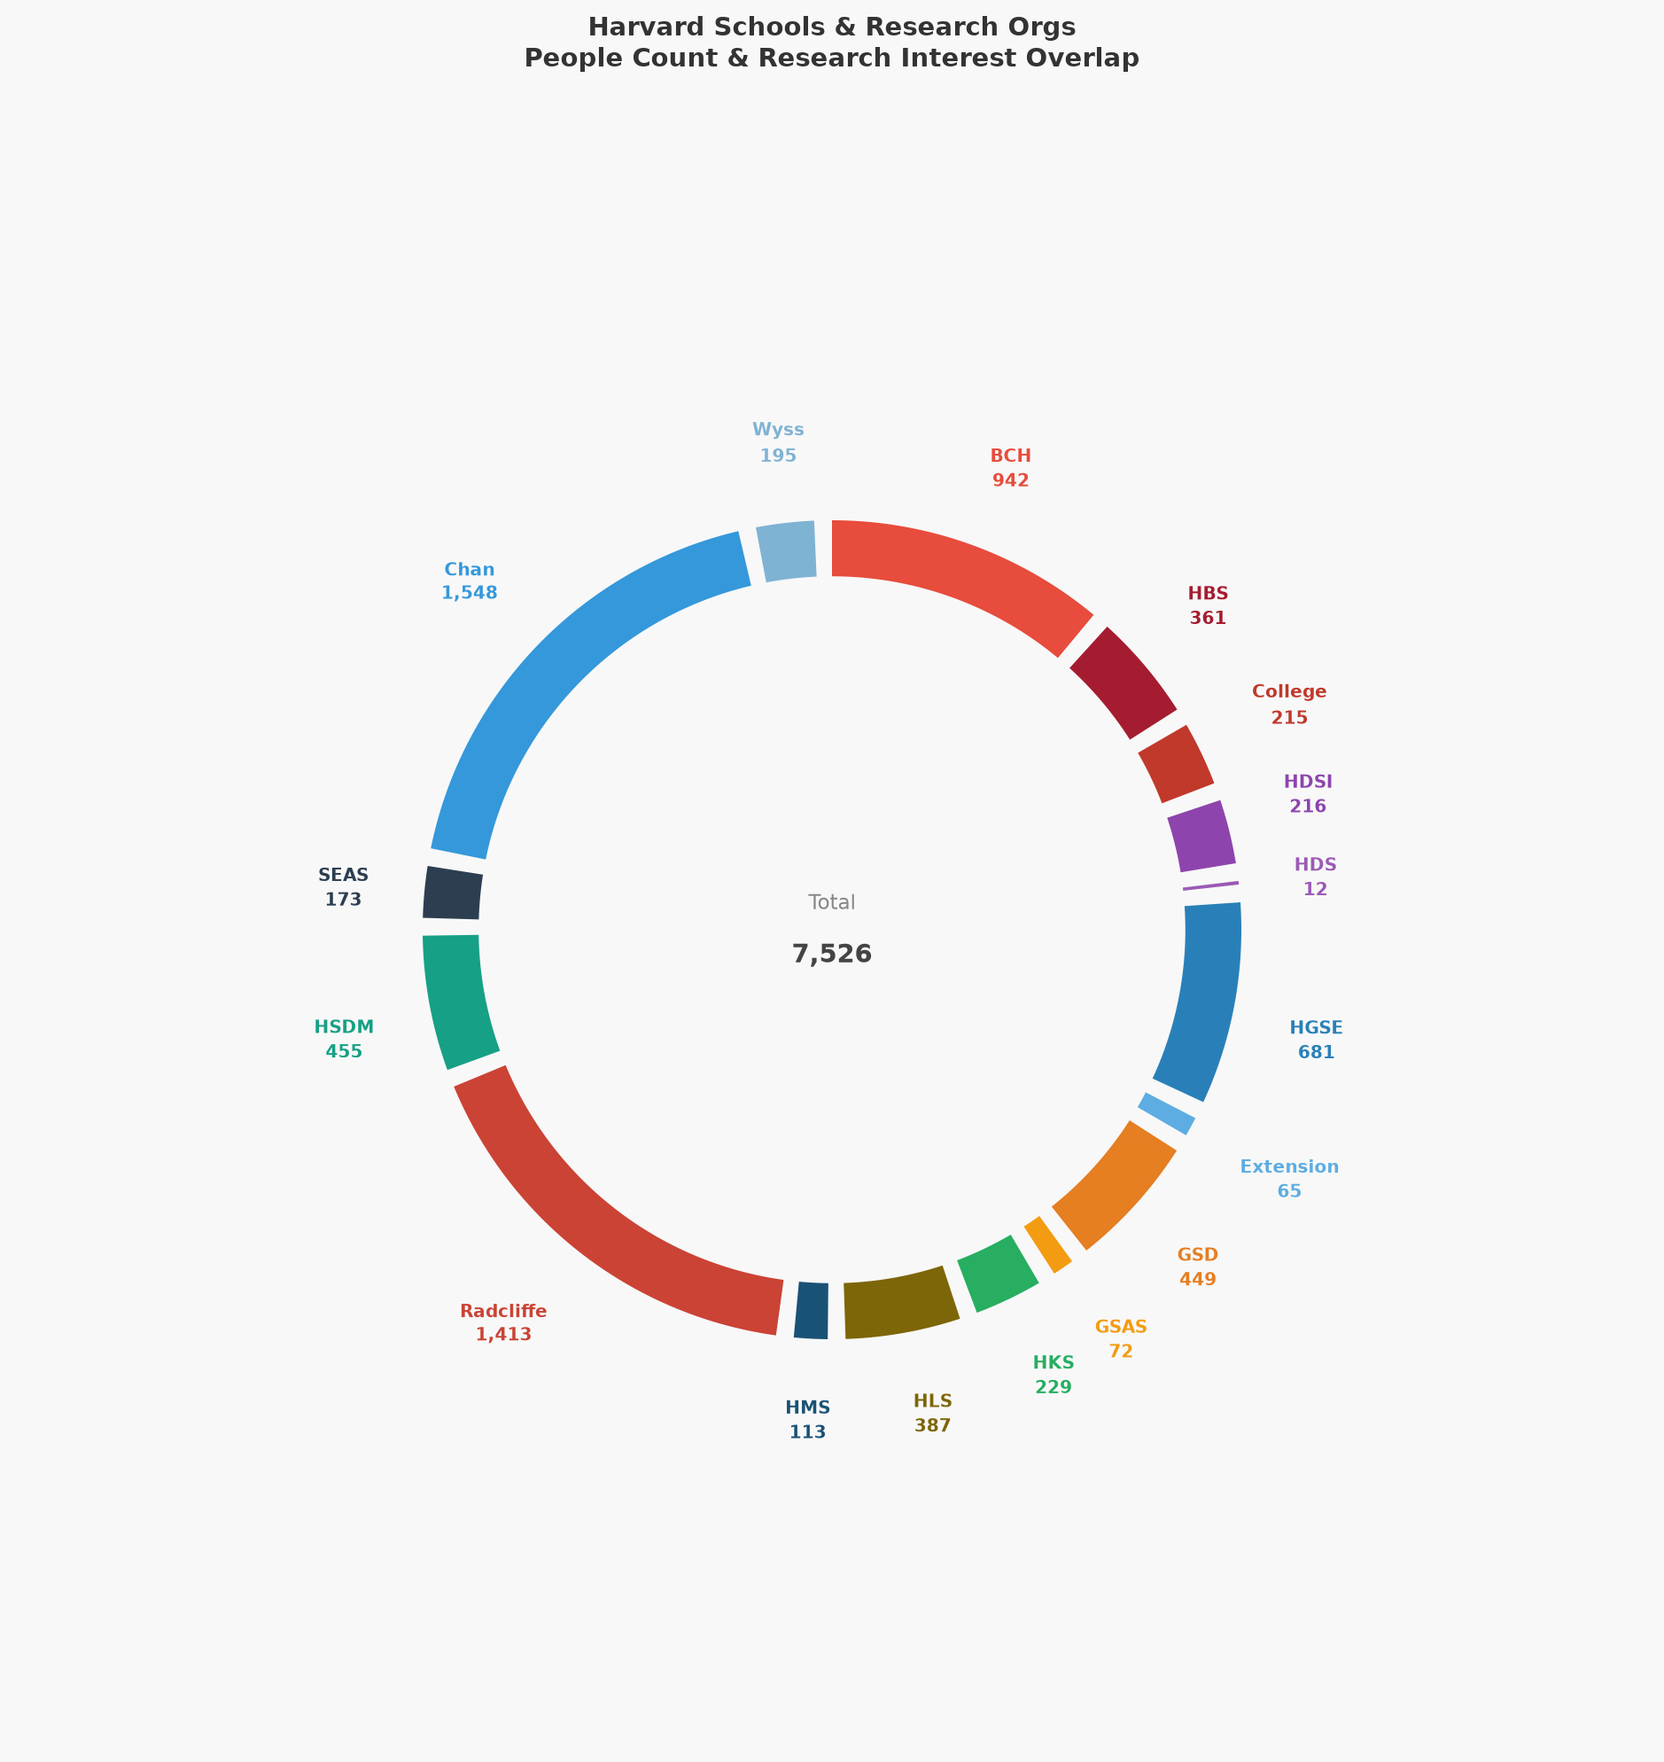
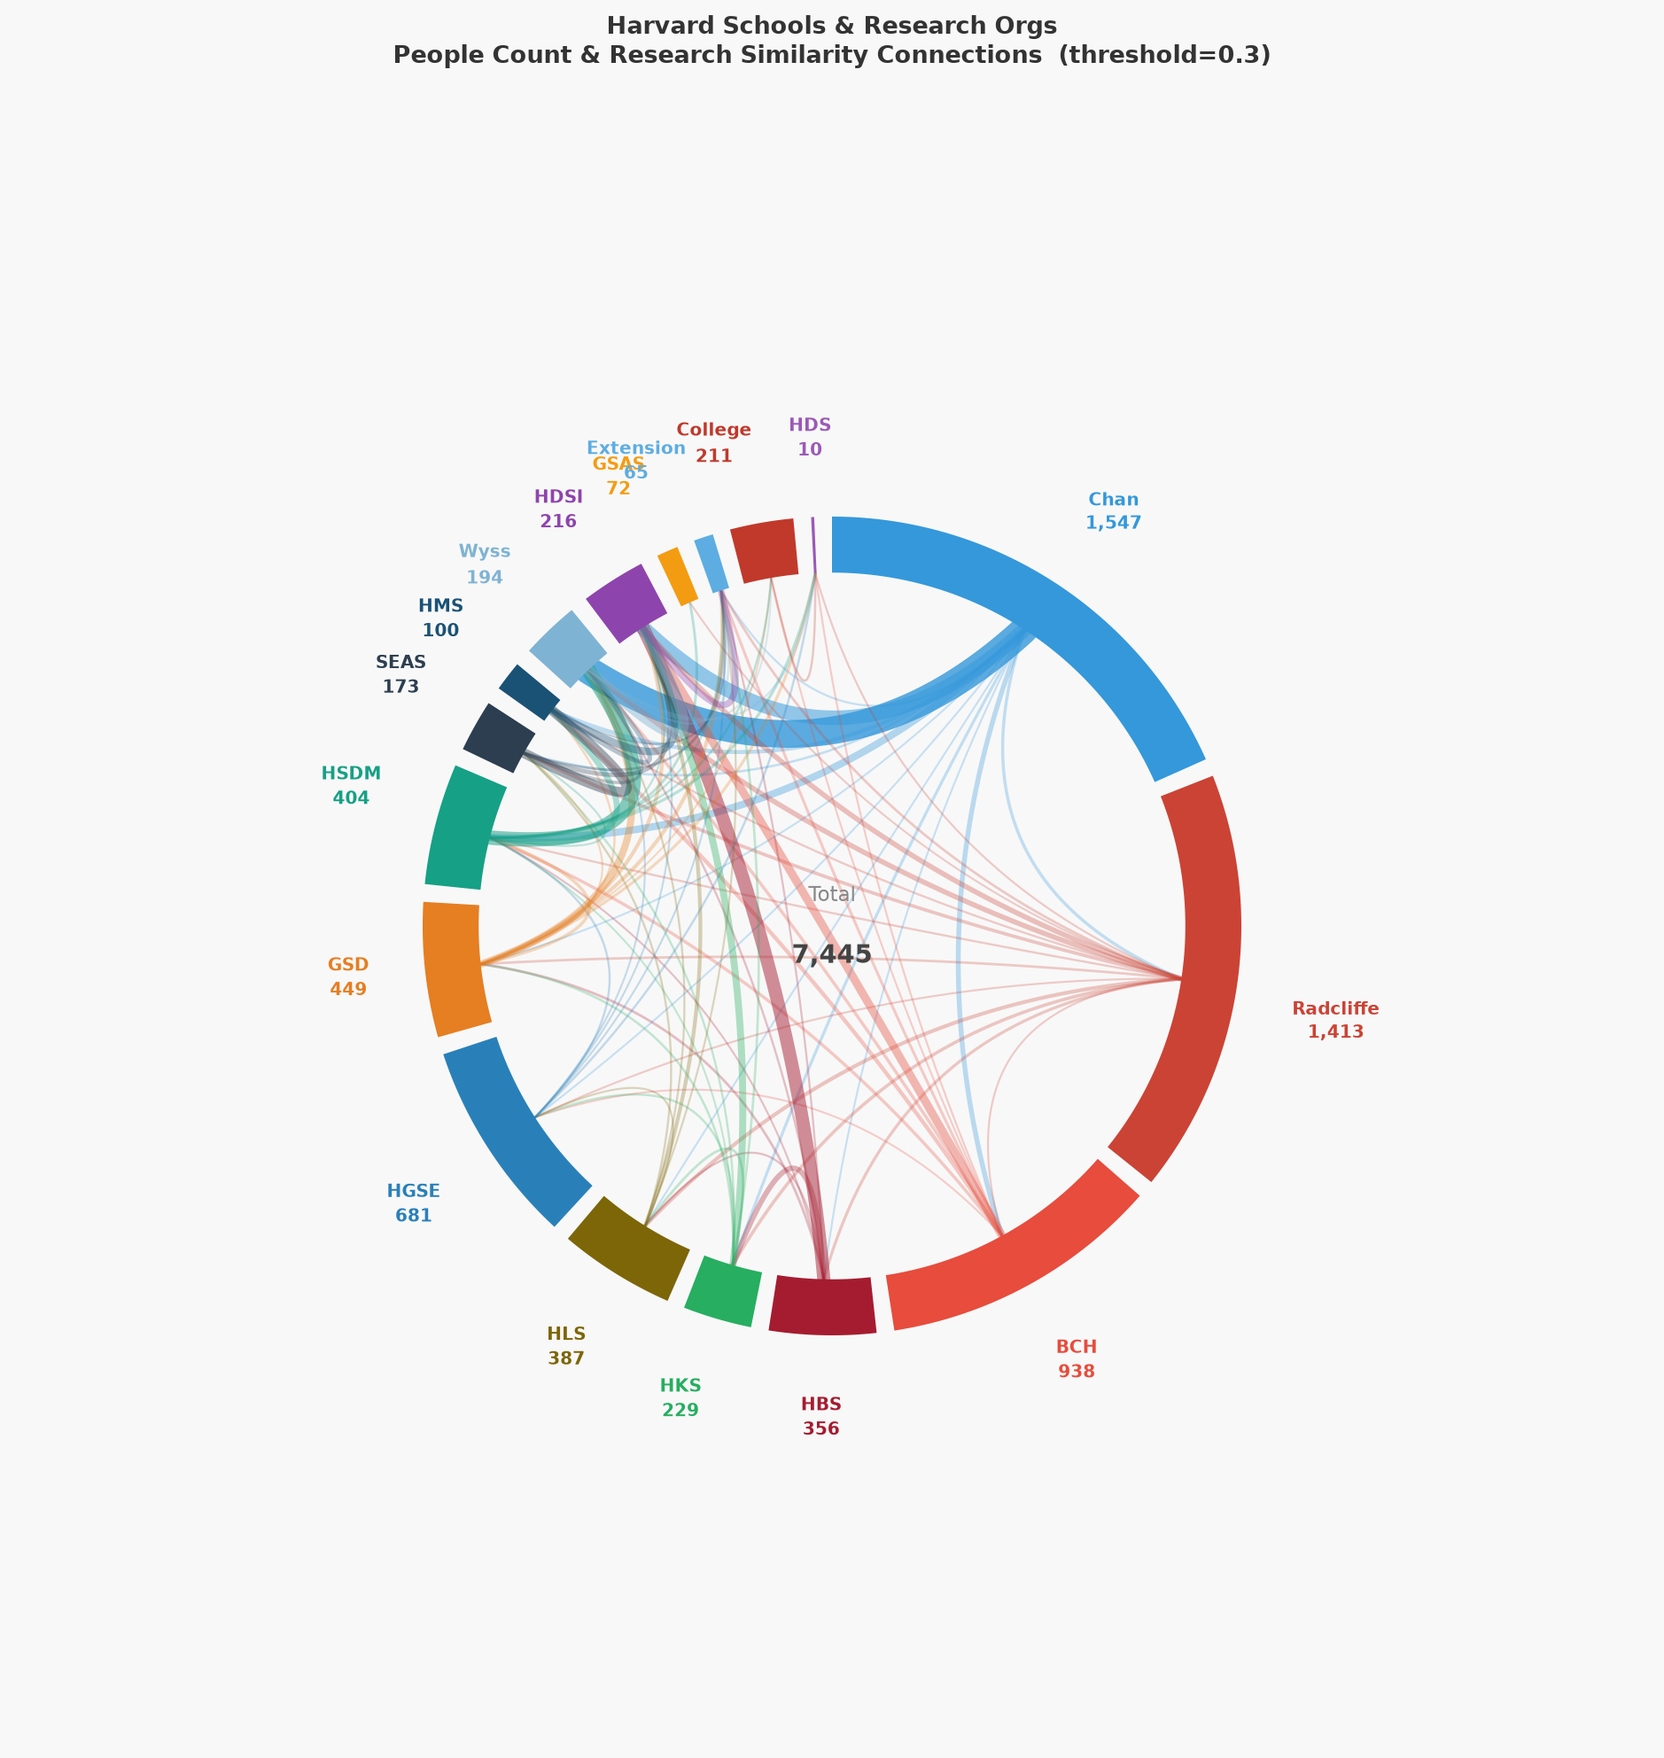
add more data and picture

diff --git a/scripts/visualize_school_connections.py b/scripts/visualize_school_connections.py
@@ -1,18 +1,24 @@
 #!/usr/bin/env python3
 """
-Generate a chord diagram showing the number of people per Harvard school / research org
-and research-interest keyword overlap as chord connections.
+Chord diagram: Harvard schools/orgs connected by researcher similarity.
+
+Algorithm:
+  1. Build one text per person from bio + title + research_interests.
+  2. Fit TF-IDF across all people (unigrams + bigrams, English stop words).
+  3. For every org pair, compute cosine-similarity between all their people.
+  4. Connection strength = number of cross-org person pairs with sim >= threshold,
+     normalised by sqrt(|A| * |B|) so large orgs don't dominate.
+  5. Draw a chord diagram: arc size = people count, chord width = connection strength.
 
 Usage:
     py scripts/visualize_school_connections.py
-    py scripts/visualize_school_connections.py --output data/my_chart.png
+    py scripts/visualize_school_connections.py --threshold 0.3 --output data/chart.png
 """
 from __future__ import annotations
 
 import argparse
 import json
 import math
-from collections import Counter
 from pathlib import Path
 
 import matplotlib
@@ -21,182 +27,245 @@ import matplotlib.pyplot as plt
 from matplotlib.patches import PathPatch
 from matplotlib.path import Path as MPath
 import numpy as np
+from sklearn.feature_extraction.text import TfidfVectorizer
+from sklearn.metrics.pairwise import cosine_similarity
 
 ROOT = Path(__file__).resolve().parent.parent
 DATA_DIR = ROOT / "data" / "raw"
 DEFAULT_OUTPUT = ROOT / "data" / "school_connections.png"
+DEFAULT_THRESHOLD = 0.3
 
-# (short label, hex color)
+# (short label, hex color) — order determines clockwise position in the diagram
 SCHOOL_META: dict[str, tuple[str, str]] = {
+    "harvard_t_h_chan_school_public_health_people": ("Chan",      "#3498DB"),
+    "harvard_radcliffe_institute_people":           ("Radcliffe", "#CB4335"),
     "boston_childrens_hospital_people":             ("BCH",       "#E74C3C"),
     "harvard_business_school_people":               ("HBS",       "#A51C30"),
-    "harvard_college_dso_staff_people":             ("College",   "#C0392B"),
-    "harvard_data_science_initiative_people":       ("HDSI",      "#8E44AD"),
-    "harvard_divinity_school_people":               ("HDS",       "#9B59B6"),
-    "harvard_education_school_people":              ("HGSE",      "#2980B9"),
-    "harvard_extension_school_people":              ("Extension", "#5DADE2"),
-    "harvard_graduate_school_of_design_people":     ("GSD",       "#E67E22"),
-    "harvard_gsas_staff_people":                    ("GSAS",      "#F39C12"),
     "harvard_kennedy_school_people":                ("HKS",       "#27AE60"),
     "harvard_law_school_people":                    ("HLS",       "#7D6608"),
-    "harvard_medical_school_people":                ("HMS",       "#1A5276"),
-    "harvard_radcliffe_institute_people":           ("Radcliffe", "#CB4335"),
+    "harvard_education_school_people":              ("HGSE",      "#2980B9"),
+    "harvard_graduate_school_of_design_people":     ("GSD",       "#E67E22"),
     "harvard_school_of_dental_medicine_people":     ("HSDM",      "#16A085"),
     "harvard_seas_people":                          ("SEAS",      "#2C3E50"),
-    "harvard_t_h_chan_school_public_health_people": ("Chan",      "#3498DB"),
+    "harvard_medical_school_people":                ("HMS",       "#1A5276"),
     "harvard_wyss_institute_people":                ("Wyss",      "#7FB3D3"),
+    "harvard_data_science_initiative_people":       ("HDSI",      "#8E44AD"),
+    "harvard_gsas_staff_people":                    ("GSAS",      "#F39C12"),
+    "harvard_extension_school_people":              ("Extension", "#5DADE2"),
+    "harvard_college_dso_staff_people":             ("College",   "#C0392B"),
+    "harvard_divinity_school_people":               ("HDS",       "#9B59B6"),
 }
 
 
-def count_profiles(school_dir: Path) -> int:
-    return sum(
-        1 for d in school_dir.iterdir()
-        if d.is_dir() and not d.name.startswith("_") and (d / "profile.jsonl").exists()
-    )
+# ── data loading ──────────────────────────────────────────────────────────────
 
-
-def get_keywords(school_dir: Path) -> set[str]:
-    keywords: set[str] = set()
+def load_school(school_dir: Path) -> tuple[int, list[str]]:
+    """Return (person_count, list_of_texts) for one school directory."""
+    texts: list[str] = []
     for person_dir in school_dir.iterdir():
         if not person_dir.is_dir() or person_dir.name.startswith("_"):
             continue
-        profile_file = person_dir / "profile.jsonl"
-        if not profile_file.exists():
+        pf = person_dir / "profile.jsonl"
+        if not pf.exists():
             continue
-        with profile_file.open(encoding="utf-8") as f:
-            for line in f:
-                try:
-                    data = json.loads(line)
-                    for kw in data.get("research_interests") or []:
-                        keywords.add(kw.lower().strip())
-                except (json.JSONDecodeError, AttributeError):
-                    pass
-    return keywords
+        try:
+            data = json.loads(pf.read_text(encoding="utf-8").splitlines()[0])
+        except (json.JSONDecodeError, IndexError):
+            continue
+        parts = []
+        # research_interests carries the clearest signal — weight it 3×
+        for ri in data.get("research_interests") or []:
+            parts.extend([ri] * 3)
+        if data.get("title"):
+            parts.append(data["title"])
+        if data.get("bio"):
+            parts.append(data["bio"])
+        text = " ".join(parts).strip()
+        if text:
+            texts.append(text)
+    return len(texts), texts
 
 
-def draw_arc_segment(ax, theta1: float, theta2: float, r_inner: float, r_outer: float, color: str) -> None:
+# ── similarity ────────────────────────────────────────────────────────────────
+
+def build_tfidf(all_texts: list[str]) -> np.ndarray:
+    print(f"  Fitting TF-IDF on {len(all_texts):,} person texts …")
+    vec = TfidfVectorizer(
+        ngram_range=(1, 2),
+        stop_words="english",
+        min_df=3,
+        max_df=0.80,
+        max_features=8000,
+        sublinear_tf=True,
+    )
+    return vec.fit_transform(all_texts)
+
+
+def compute_connections(
+    school_matrices: list[np.ndarray],
+    threshold: float,
+) -> np.ndarray:
+    n = len(school_matrices)
+    connections = np.zeros((n, n))
+    total_pairs = sum(
+        school_matrices[i].shape[0] * school_matrices[j].shape[0]
+        for i in range(n) for j in range(i + 1, n)
+    )
+    print(f"  Computing similarities for {total_pairs:,} cross-org person pairs …")
+    done = 0
+    for i in range(n):
+        for j in range(i + 1, n):
+            Xi = school_matrices[i]
+            Xj = school_matrices[j]
+            if Xi.shape[0] == 0 or Xj.shape[0] == 0:
+                continue
+            sim = cosine_similarity(Xi, Xj)          # (|A| × |B|)
+            count = float(np.sum(sim >= threshold))
+            # normalise so large orgs don't dominate
+            norm = math.sqrt(Xi.shape[0] * Xj.shape[0])
+            connections[i, j] = connections[j, i] = count / norm
+            done += Xi.shape[0] * Xj.shape[0]
+    return connections
+
+
+# ── drawing ───────────────────────────────────────────────────────────────────
+
+def draw_arc(ax, theta1: float, theta2: float, r_in: float, r_out: float, color: str) -> None:
     n = 120
-    thetas = np.linspace(theta1, theta2, n)
-    x_out = r_outer * np.cos(thetas)
-    y_out = r_outer * np.sin(thetas)
-    x_in = r_inner * np.cos(thetas[::-1])
-    y_in = r_inner * np.sin(thetas[::-1])
-    xs = np.concatenate([x_out, x_in, [x_out[0]]])
-    ys = np.concatenate([y_out, y_in, [y_out[0]]])
-    ax.fill(xs, ys, color=color, zorder=3, linewidth=0)
+    t = np.linspace(theta1, theta2, n)
+    xo, yo = r_out * np.cos(t), r_out * np.sin(t)
+    xi, yi = r_in  * np.cos(t[::-1]), r_in * np.sin(t[::-1])
+    ax.fill(
+        np.concatenate([xo, xi, [xo[0]]]),
+        np.concatenate([yo, yi, [yo[0]]]),
+        color=color, zorder=3, linewidth=0,
+    )
 
 
-def draw_chord(ax, theta_a: float, theta_b: float, color: str, alpha: float, r: float = 0.78) -> None:
-    p1 = np.array([r * math.cos(theta_a), r * math.sin(theta_a)])
-    p2 = np.array([r * math.cos(theta_b), r * math.sin(theta_b)])
-    ctrl = np.array([0.0, 0.0])
-    verts = [tuple(p1), tuple(ctrl), tuple(p2), tuple(ctrl), tuple(p1), tuple(p1)]
-    codes = [MPath.MOVETO, MPath.CURVE3, MPath.CURVE3, MPath.CURVE3, MPath.CURVE3, MPath.CLOSEPOLY]
-    path = MPath(verts, codes)
-    patch = PathPatch(path, facecolor=color, edgecolor="none", alpha=alpha, zorder=1)
-    ax.add_patch(patch)
+def draw_chord(ax, theta_a: float, theta_b: float, color: str, alpha: float, linewidth: float, r: float = 0.82) -> None:
+    """Quadratic bezier curved line connecting two arc midpoints through the centre."""
+    x1, y1 = r * math.cos(theta_a), r * math.sin(theta_a)
+    x2, y2 = r * math.cos(theta_b), r * math.sin(theta_b)
+    t = np.linspace(0, 1, 120)
+    # quadratic bezier: control point pulled 60 % toward centre from the midpoint
+    mx, my = (x1 + x2) / 2 * 0.40, (y1 + y2) / 2 * 0.40
+    x = (1 - t)**2 * x1 + 2 * (1 - t) * t * mx + t**2 * x2
+    y = (1 - t)**2 * y1 + 2 * (1 - t) * t * my + t**2 * y2
+    ax.plot(x, y, color=color, alpha=alpha, linewidth=linewidth,
+            solid_capstyle="round", zorder=2)
 
 
-def main(output_path: Path = DEFAULT_OUTPUT) -> None:
-    # --- Collect data ---
+# ── main ──────────────────────────────────────────────────────────────────────
+
+def main(output_path: Path = DEFAULT_OUTPUT, threshold: float = DEFAULT_THRESHOLD) -> None:
+    # 1. Load all schools
     schools = []
-    for folder_name, (label, color) in SCHOOL_META.items():
-        school_dir = DATA_DIR / folder_name
-        if not school_dir.is_dir():
+    for folder, (label, color) in SCHOOL_META.items():
+        d = DATA_DIR / folder
+        if not d.is_dir():
             continue
-        count = count_profiles(school_dir)
+        count, texts = load_school(d)
         if count == 0:
             continue
-        keywords = get_keywords(school_dir)
-        schools.append({"key": folder_name, "label": label, "color": color,
-                         "count": count, "keywords": keywords})
+        schools.append({"label": label, "color": color, "count": count, "texts": texts})
+        print(f"  {label:12s}  {count:5d} people  {len(texts):5d} texts")
 
     n = len(schools)
     total = sum(s["count"] for s in schools)
-    print(f"Found {n} schools, {total:,} total people")
+    print(f"\nTotal: {n} orgs, {total:,} people\n")
 
-    # --- Compute pairwise keyword overlap ---
-    connections = np.zeros((n, n))
-    for i in range(n):
-        for j in range(i + 1, n):
-            overlap = len(schools[i]["keywords"] & schools[j]["keywords"])
-            connections[i, j] = overlap
-            connections[j, i] = overlap
+    # 2. TF-IDF
+    all_texts: list[str] = []
+    slices: list[tuple[int, int]] = []
+    for s in schools:
+        start = len(all_texts)
+        all_texts.extend(s["texts"])
+        slices.append((start, len(all_texts)))
 
-    # --- Assign angles (proportional to count, starting from top, clockwise) ---
+    X = build_tfidf(all_texts)
+    school_matrices = [X[a:b] for a, b in slices]
+
+    # 3. Compute connections
+    connections = compute_connections(school_matrices, threshold)
+
+    # 4. Report top connections
+    print(f"\nTop connections (threshold={threshold}):")
+    pairs = [
+        (connections[i, j], schools[i]["label"], schools[j]["label"])
+        for i in range(n) for j in range(i + 1, n)
+        if connections[i, j] > 0
+    ]
+    for strength, a, b in sorted(pairs, reverse=True)[:10]:
+        print(f"  {a:12s} <-> {b:12s}  {strength:.3f}")
+
+    # 5. Draw chord diagram
     GAP_DEG = 2.5
     gap_rad = math.radians(GAP_DEG)
-    total_gap_rad = gap_rad * n
-    usable_rad = 2 * math.pi - total_gap_rad
+    usable_rad = 2 * math.pi - gap_rad * n
 
-    # Start at top (pi/2) and go clockwise (subtract angles)
     angles: list[tuple[float, float, float]] = []
     cursor = math.pi / 2
     for s in schools:
         span = usable_rad * s["count"] / total
-        start = cursor
-        end = cursor - span
-        mid = (start + end) / 2
-        angles.append((start, end, mid))
+        start, end = cursor, cursor - span
+        angles.append((start, end, (start + end) / 2))
         cursor = end - gap_rad
 
-    # --- Draw ---
     fig, ax = plt.subplots(figsize=(16, 16), facecolor="#F8F8F8")
     ax.set_aspect("equal")
     ax.axis("off")
     ax.set_xlim(-1.9, 1.9)
     ax.set_ylim(-1.9, 1.9)
 
-    R_INNER = 0.82
-    R_OUTER = 0.95
-    R_LABEL = 1.08
-    MIN_OVERLAP = 3
+    R_IN, R_OUT, R_LABEL = 0.82, 0.95, 1.08
 
-    max_conn = connections.max() if connections.max() > 0 else 1
-
-    # Draw chords first (behind arcs)
+    # chords
+    max_c = connections.max() if connections.max() > 0 else 1
     for i in range(n):
         for j in range(i + 1, n):
-            strength = connections[i, j]
-            if strength < MIN_OVERLAP:
+            c = connections[i, j]
+            if c <= 0:
                 continue
-            alpha = 0.05 + 0.30 * (strength / max_conn)
-            draw_chord(ax, angles[i][2], angles[j][2], schools[i]["color"], alpha)
+            linewidth = 1.0 + 14.0 * (c / max_c)   # 1px – 15px
+            alpha     = 0.25 + 0.55 * (c / max_c)   # 0.25 – 0.80
+            draw_chord(ax, angles[i][2], angles[j][2],
+                       schools[i]["color"], alpha, linewidth)
 
-    # Draw arc segments
+    # arcs + labels
     for i, s in enumerate(schools):
         start, end, mid = angles[i]
-        draw_arc_segment(ax, end, start, R_INNER, R_OUTER, s["color"])
+        draw_arc(ax, end, start, R_IN, R_OUT, s["color"])
 
-        # Position label radially
         lx = R_LABEL * math.cos(mid)
         ly = R_LABEL * math.sin(mid)
         ha = "left" if lx > 0.15 else ("right" if lx < -0.15 else "center")
         va = "bottom" if ly > 0.15 else ("top" if ly < -0.15 else "center")
-
         ax.text(lx, ly, f"{s['label']}\n{s['count']:,}",
                 ha=ha, va=va, fontsize=9.5, fontweight="bold",
-                color=s["color"], multialignment="center",
-                linespacing=1.4)
+                color=s["color"], multialignment="center", linespacing=1.4)
 
-    # Center label
-    ax.text(0, 0.06, "Total", ha="center", va="center",
-            fontsize=11, color="#888888")
-    ax.text(0, -0.06, f"{total:,}", ha="center", va="center",
+    # centre
+    ax.text(0, 0.07, "Total",    ha="center", va="center", fontsize=11, color="#888888")
+    ax.text(0, -0.07, f"{total:,}", ha="center", va="center",
             fontsize=14, fontweight="bold", color="#444444")
 
-    ax.set_title("Harvard Schools & Research Orgs\nPeople Count & Research Interest Overlap",
-                 fontsize=14, pad=24, color="#333333", fontweight="bold")
+    ax.set_title(
+        f"Harvard Schools & Research Orgs\n"
+        f"People Count & Research Similarity Connections  (threshold={threshold})",
+        fontsize=13, pad=24, color="#333333", fontweight="bold",
+    )
 
     output_path.parent.mkdir(parents=True, exist_ok=True)
     fig.savefig(output_path, dpi=150, bbox_inches="tight", facecolor=fig.get_facecolor())
     plt.close(fig)
-    print(f"Saved: {output_path}")
+    print(f"\nSaved: {output_path}")
 
 
 if __name__ == "__main__":
     parser = argparse.ArgumentParser(description="Generate school chord diagram.")
+    parser.add_argument("--threshold", type=float, default=DEFAULT_THRESHOLD,
+                        help="Cosine-similarity threshold (default 0.3)")
     parser.add_argument("--output", type=Path, default=DEFAULT_OUTPUT,
-                        help="Output PNG path (default: data/school_connections.png)")
+                        help="Output PNG path")
     args = parser.parse_args()
-    main(args.output)
+    main(args.output, args.threshold)
